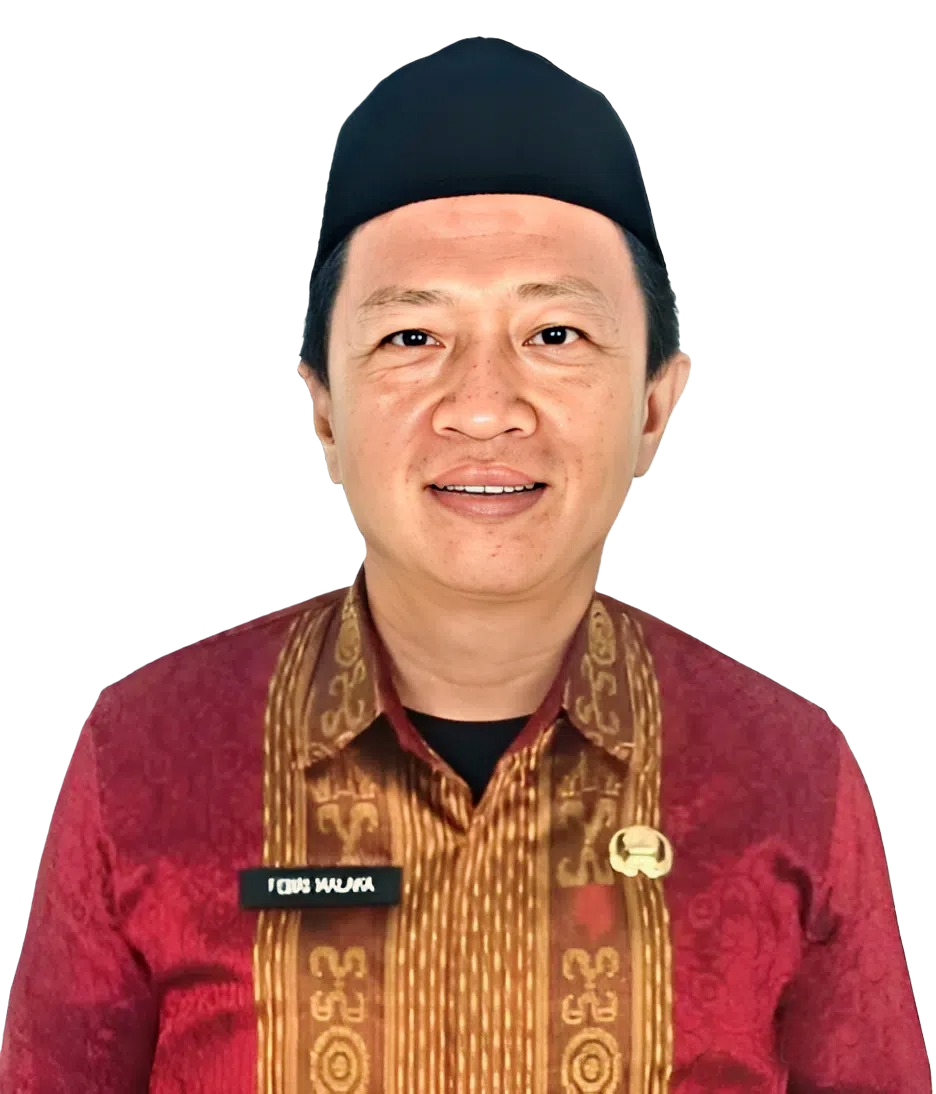
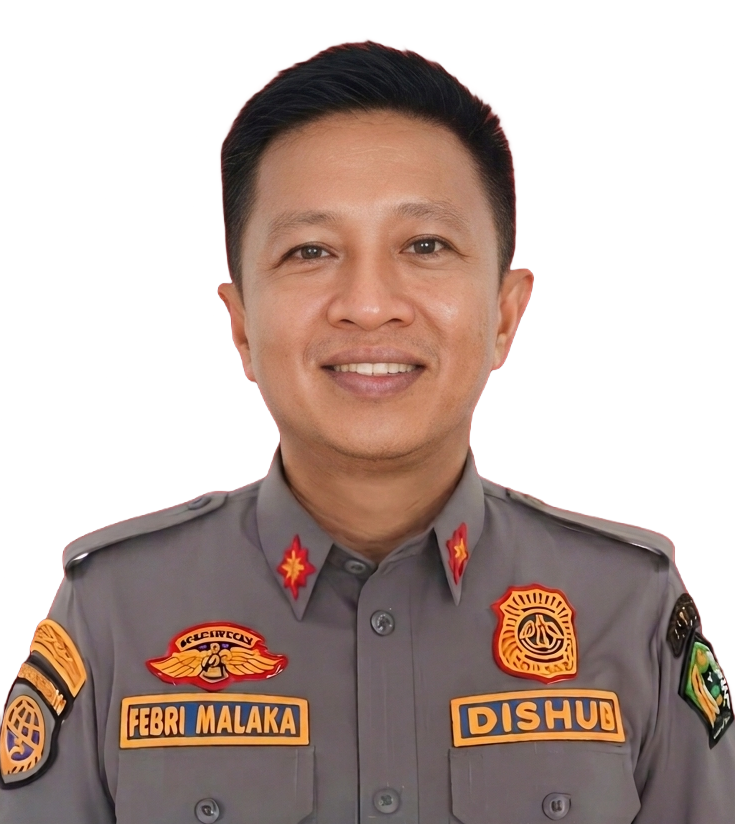
Update foto sekdis dan kadis

diff --git a/index.html b/index.html
@@ -163,7 +163,7 @@
           <h3>Pimpinan dan Pejabat Dishub Konawe</h3>
           <div class="struktur-grid">
             <div class="struktur-item">
-              <div class="foto-wrapper"><img src="img/foto profil kadis.png" alt="Febri malaka" class="foto-pejabat"></div>
+              <div class="foto-wrapper"><img src="img/kadis.png" alt="Febri malaka" class="foto-pejabat"></div>
               <p class="jabatan">Plt. Kepala Dinas</p>
               <p class="nama">Febri malaka, SE., MM</p>
             </div>
